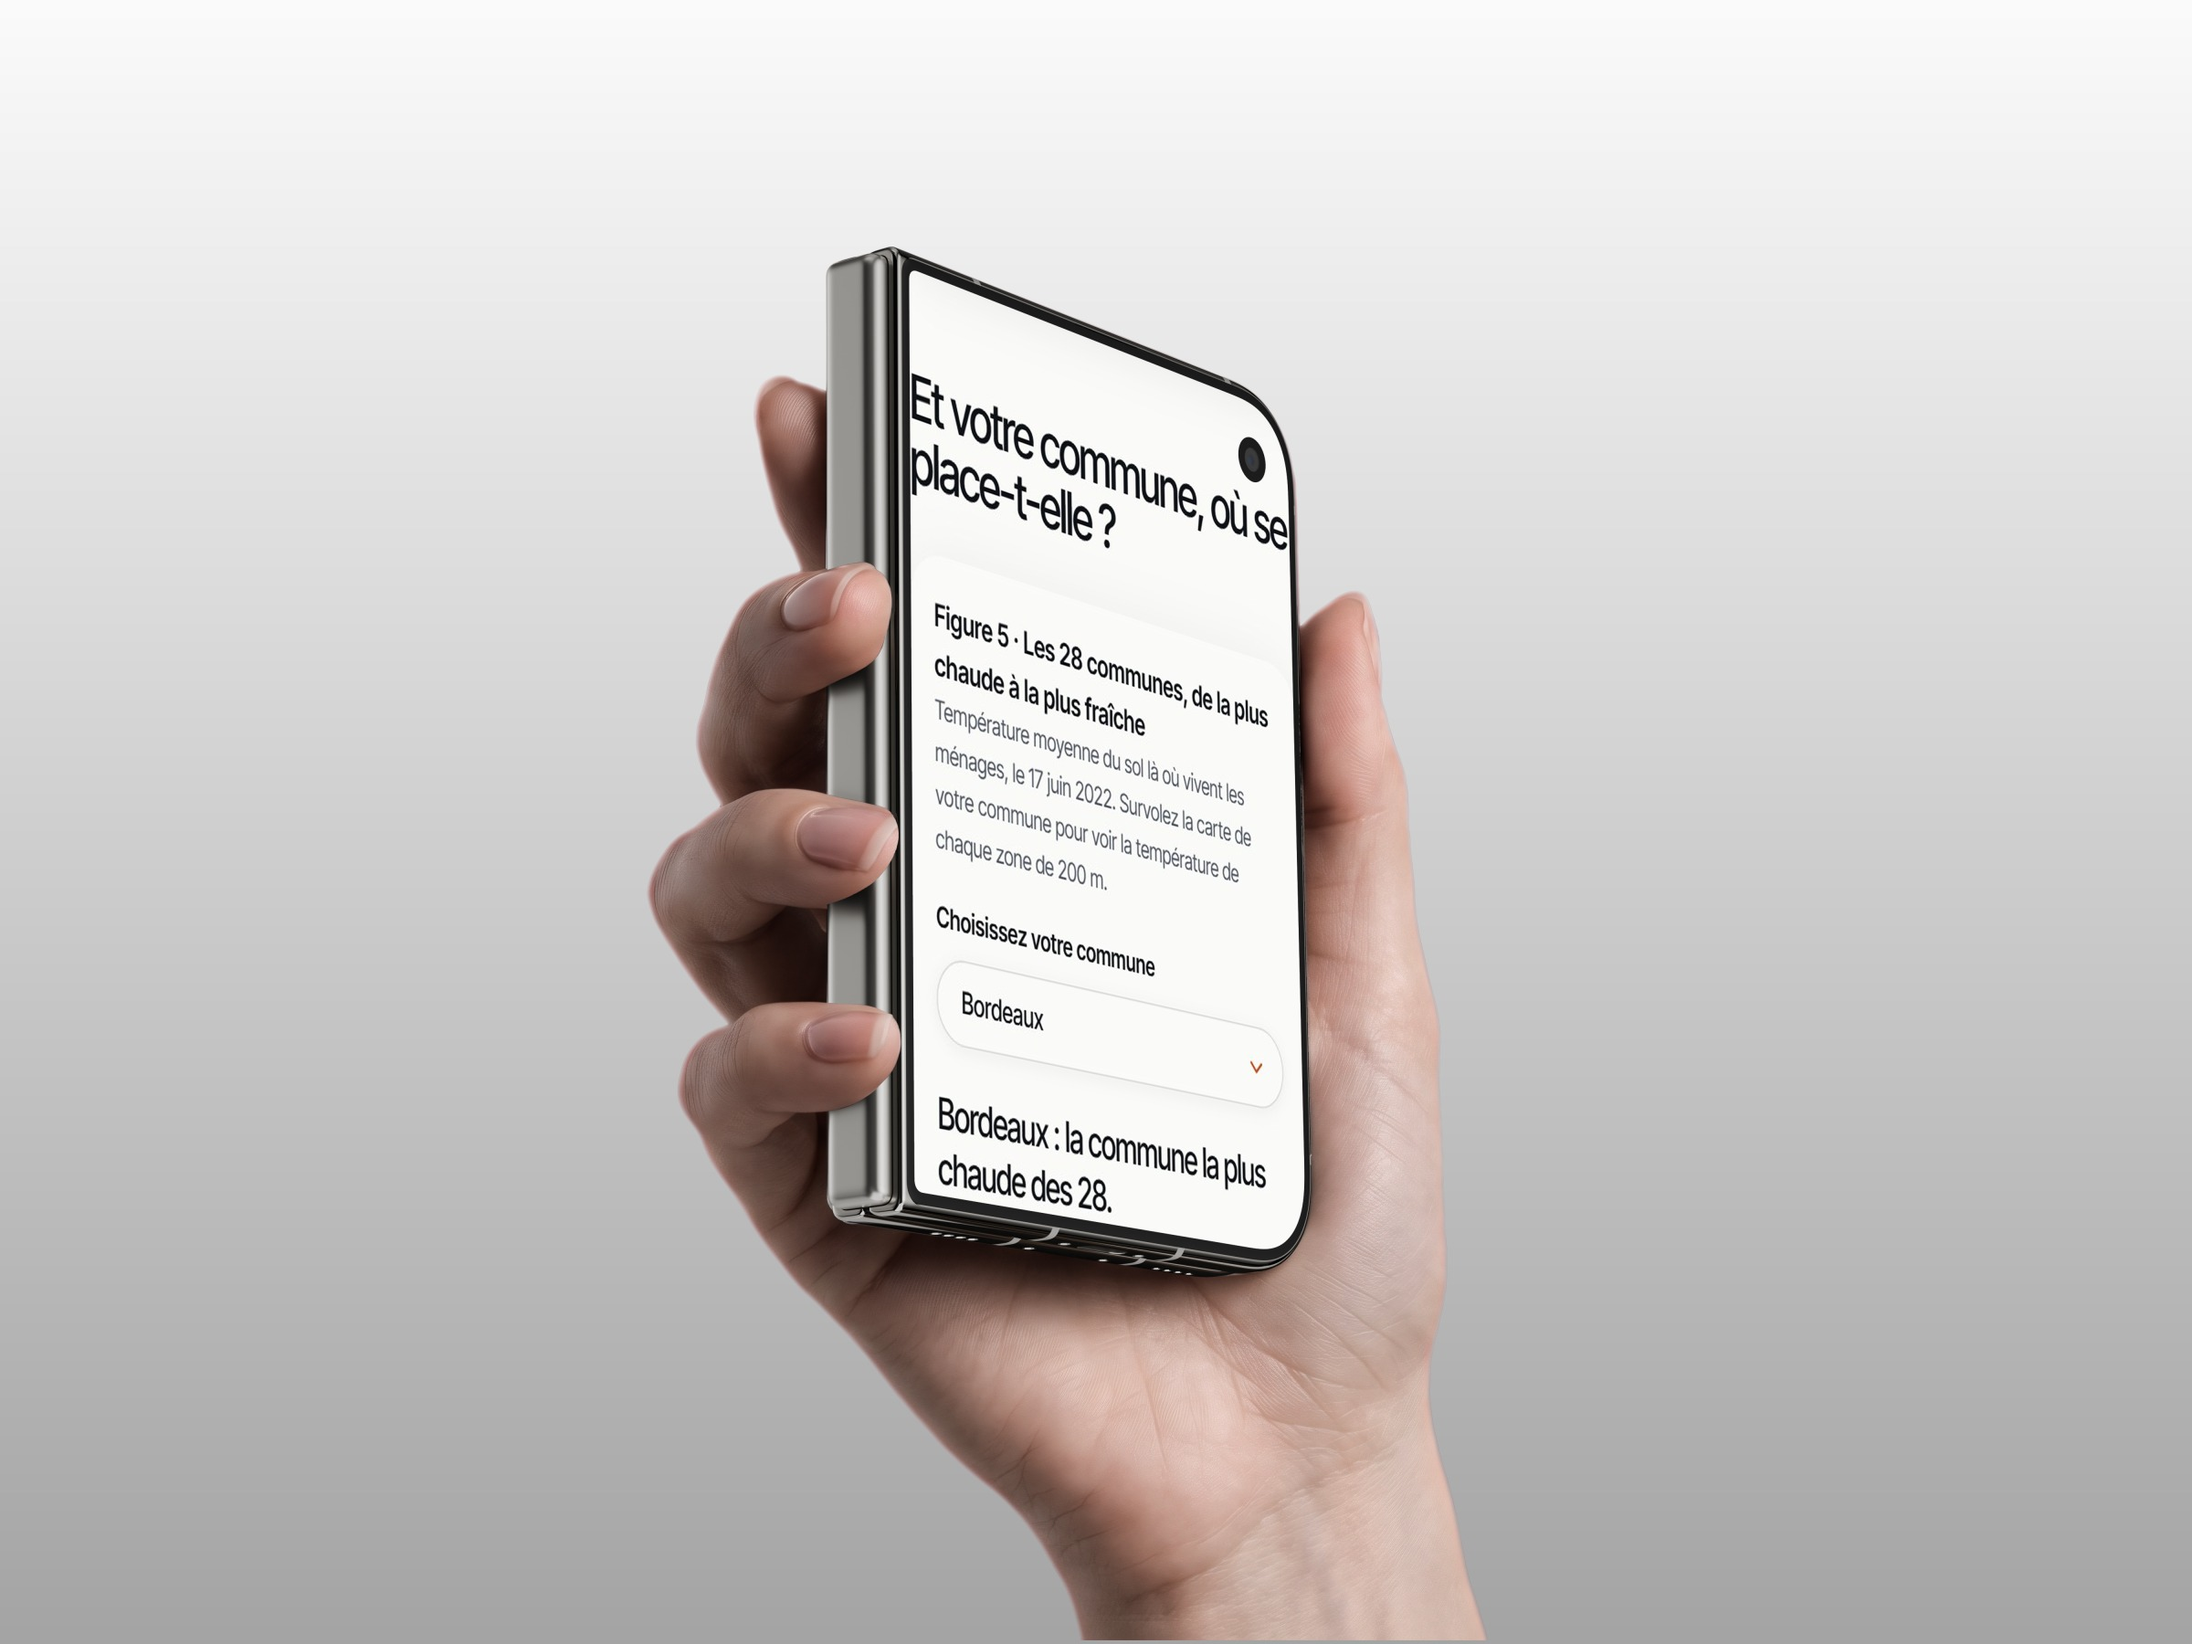
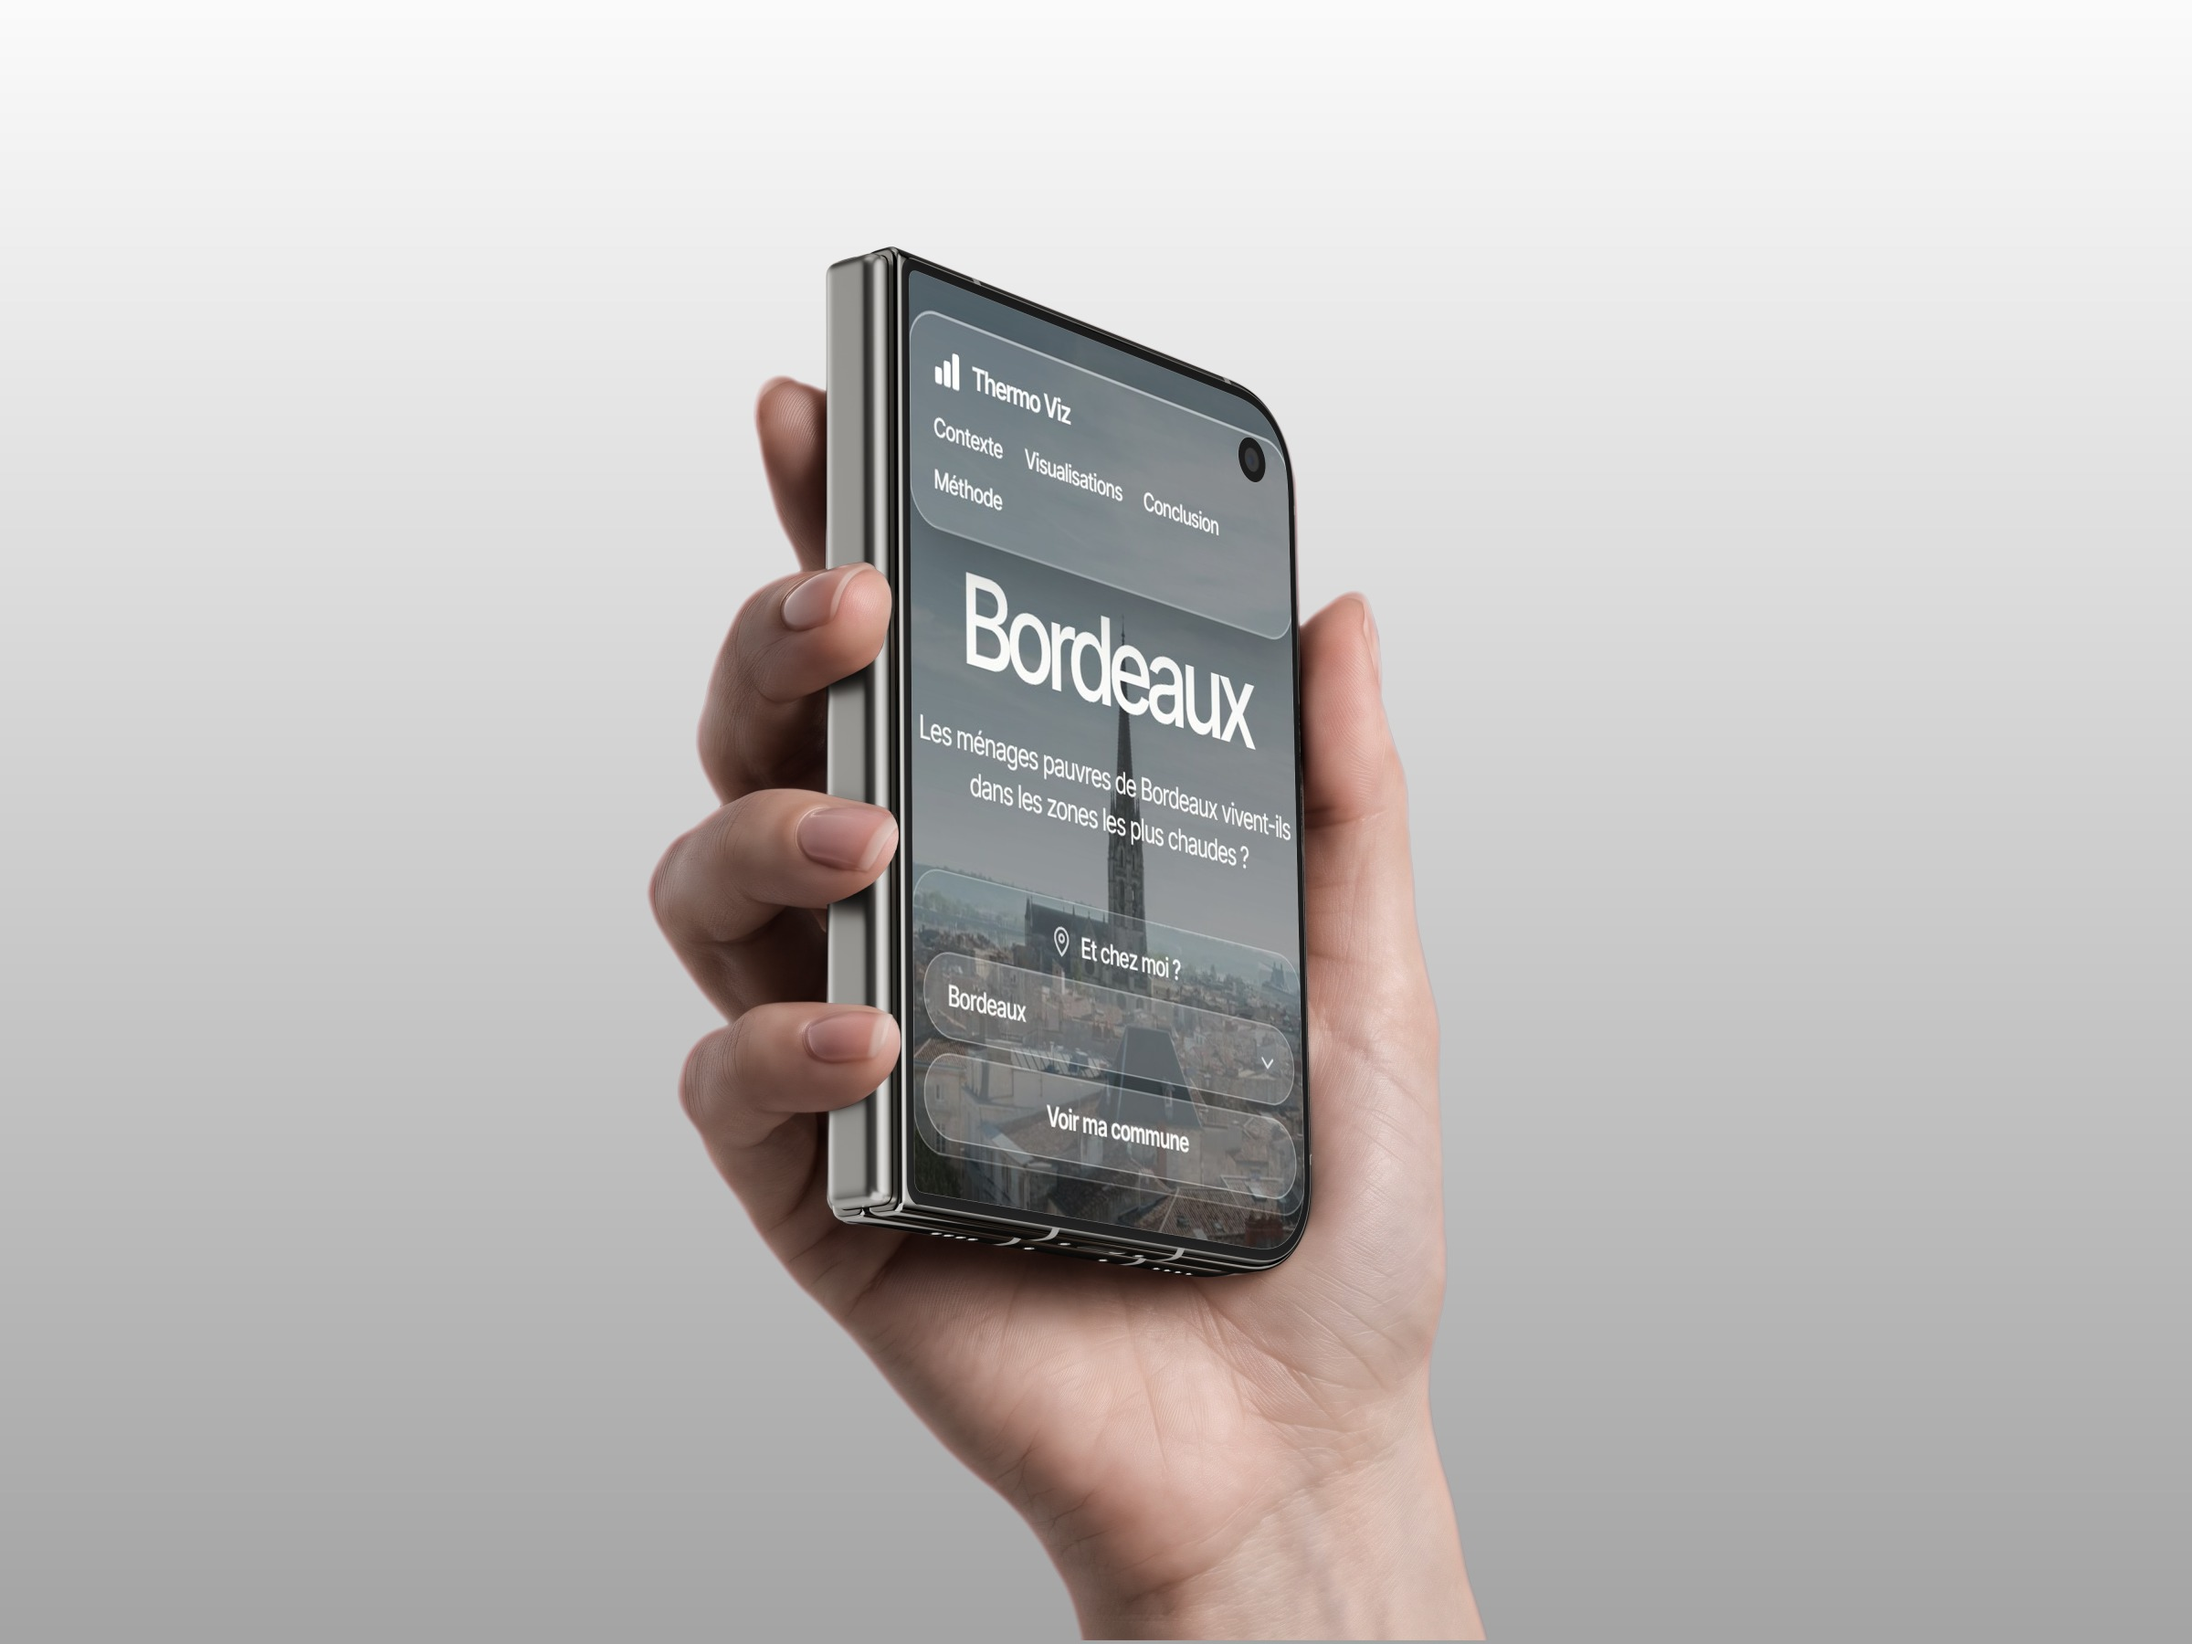
ThermoViz : page d'accueil sur les deux mockups

Changed region(s): [[0.4062, 0.1556, 0.5938, 0.7778]]

diff --git a/JOURNAL.md b/JOURNAL.md
@@ -133,4 +133,4 @@ Je n'ai pas choisi Instagram ni Behance, car je n'y publie pas assez de contenu 
 - Nettoyer et découper la feuille de styles (160 Ko).
 - Mettre le site en ligne sur enzoh.fr (hébergement, HTTPS) et refaire les mesures sur le site en ligne.
 - Mettre à jour LinkedIn, préparer les deux soutenances.
-- Mockups ThermoViz refaits comme TiK•TaK : MacBook en main (la carte) et iPhone Duo (« Et votre commune »), et suppression des 3 petites captures mobiles de l'onglet résultat.
+- Mockups ThermoViz refaits comme TiK•TaK : MacBook en main et iPhone Duo, tous deux avec la page d'accueil, et suppression des 3 petites captures mobiles de l'onglet résultat.
